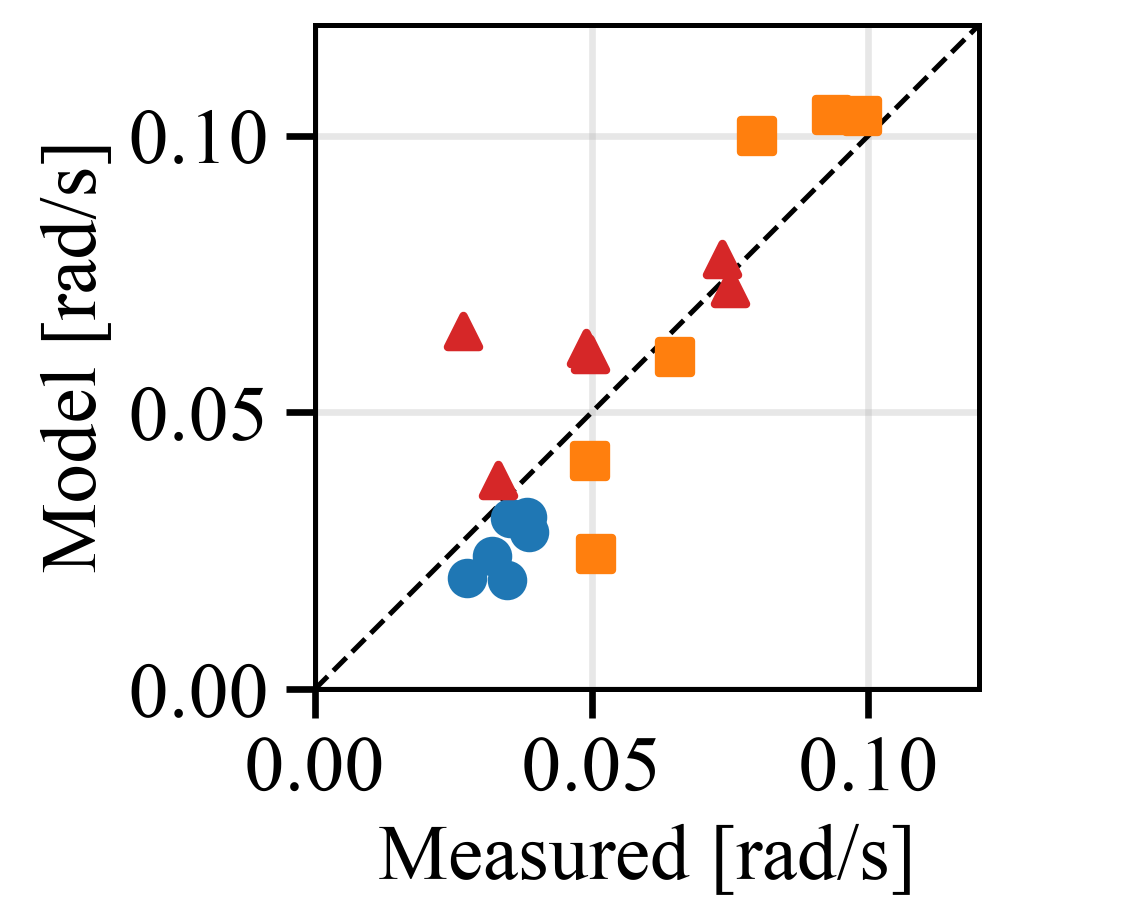
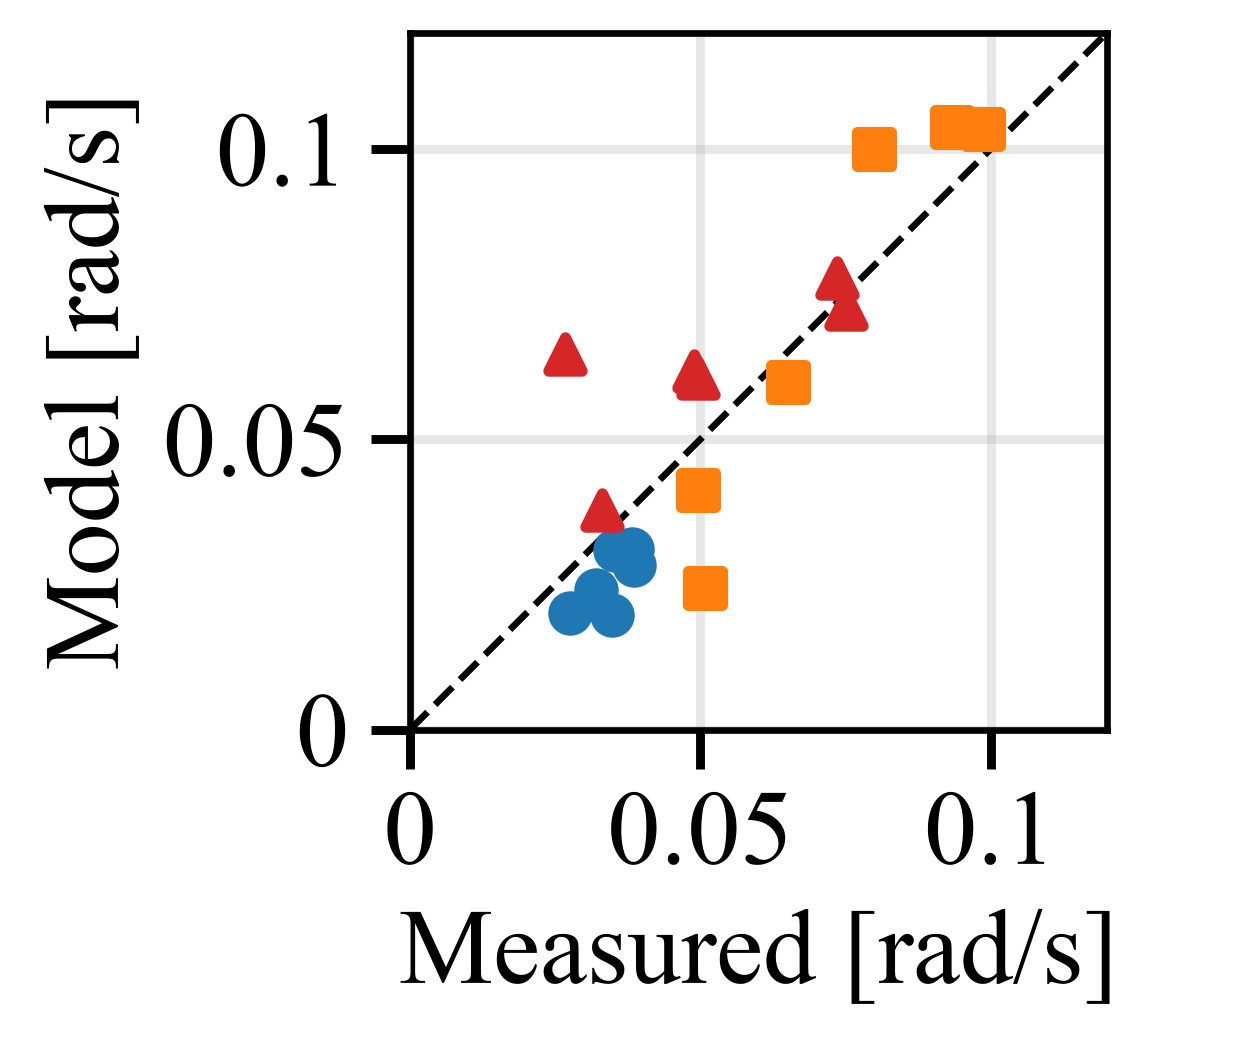
vib_sim: KRoC 그림을 납작하게(40 × 33 mm, 80 × 40 mm), 글자 9.5 pt·800 dpi

Changed region(s): [[0.0309, 0.0, 0.8959, 0.9729], [0.3707, 0.304, 0.4634, 0.3952]]

diff --git a/vib_sim/fig_kroc.py b/vib_sim/fig_kroc.py
@@ -1,4 +1,4 @@
-"""KRoC 양식용 그림(300 dpi 이상·1000 픽셀 이상, 그림 안 글자는 본문과 같은 9.5 pt, 캡션은 영어). 원고에 넣는 크기 그대로 만든다: Fig. 1은 48 mm, Fig. 2는 80 mm 폭.
+"""KRoC 양식용 그림(300 dpi 이상·1000 픽셀 이상, 그림 안 글자는 본문과 같은 9.5 pt, 캡션은 영어). 원고에 넣는 크기 그대로 만든다: Fig. 1은 40 × 33 mm, Fig. 2는 80 × 40 mm.
 실행: ~/nonmoon/.venv_pptx/bin/python fig_kroc.py  →  figs/kroc_fig1.png, figs/kroc_fig2.png
 입력: out/exp3_replay_c1.csv, out/exp6_tk5_s{1,2,3}_{pos,pd,asmc3}.csv, out/exp6_tk5r_s{1,2,3}_asmc3.csv"""
 import csv, os
@@ -9,7 +9,7 @@ import matplotlib.pyplot as plt
 H = os.path.dirname(os.path.abspath(__file__)); O = H + "/out"; CAM = 1.27
 # KRoC 양식: 그림 안 글자는 본문과 같은 9.5 pt, 300 dpi 이상·1,000 픽셀 이상.
 # 그림을 "원고에 넣는 크기 그대로" 만든다(W1·W2 mm) — 넣을 때 줄이거나 키우면 글자 크기가 달라진다. 글꼴은 본문의 영문 글꼴인 Times New Roman(없으면 폭이 같은 Liberation Serif로 바꿔 쓴다).
-W1, H1, W2, H2, DPI = 48.0, 39.0, 80.0, 50.0, 600
+W1, H1, W2, H2, DPI = 40.0, 33.0, 80.0, 40.0, 800      # 11/23 저녁: 2쪽에 맞추려고 납작하게(앞선 값 48 × 39, 80 × 50 mm). 800 dpi면 40 mm 폭도 1,000픽셀을 넘는다
 MM = 1 / 25.4
 plt.rcParams.update({"font.size": 9.5, "font.family": "Times New Roman", "mathtext.fontset": "stix", "axes.labelsize": 9.5, "xtick.labelsize": 9.5, "ytick.labelsize": 9.5, "legend.fontsize": 9.5,
                      "axes.grid": True, "grid.alpha": 0.3, "axes.linewidth": 0.6, "xtick.major.pad": 2, "ytick.major.pad": 2, "axes.labelpad": 2})
@@ -19,8 +19,8 @@ rows = list(csv.DictReader(open(O + "/exp3_replay_c1.csv")))
 fig, ax = plt.subplots(figsize=(W1 * MM, H1 * MM), layout="constrained")
 for v, c, m in ((5, "#1f77b4", "o"), (10, "#ff7f0e", "s"), (15, "#d62728", "^")):
     r = [x for x in rows if float(x["cond"].split("_v")[1].split("_")[0]) == v]
-    ax.scatter([float(x["real_gyro_rms"]) for x in r], [float(x["stop_pitch_5_10"]) * CAM for x in r], s=14, color=c, marker=m, zorder=3)
-lim = 0.12; ax.plot([0, lim], [0, lim], "k--", lw=0.6); ax.set_xlim(0, lim); ax.set_ylim(0, lim); ax.set_aspect("equal"); ax.set_xticks([0, 0.05, 0.1]); ax.set_yticks([0, 0.05, 0.1])
+    ax.scatter([float(x["real_gyro_rms"]) for x in r], [float(x["stop_pitch_5_10"]) * CAM for x in r], s=9, color=c, marker=m, zorder=3)
+lim = 0.12; ax.plot([0, lim], [0, lim], "k--", lw=0.6); ax.set_xlim(0, lim); ax.set_ylim(0, lim); ax.set_aspect("equal"); ax.set_xticks([0, 0.05, 0.1]); ax.set_yticks([0, 0.05, 0.1]); ax.set_xticklabels(["0", "0.05", "0.1"]); ax.set_yticklabels(["0", "0.05", "0.1"])
 ax.set_xlabel("Measured [rad/s]"); ax.set_ylabel("Model [rad/s]")
 fig.savefig(H + "/figs/kroc_fig1.png", dpi=DPI); plt.close(fig)
 
@@ -43,5 +43,5 @@ for a_, t_ in zip(ax, ("(a)", "(b)")):
     a_.set_xticks(range(3)); a_.set_xticklabels(["1", "2", "3"]); a_.set_xlabel("Moving joints"); a_.grid(axis="x", visible=False)
     a_.set_title(t_, loc="left", fontsize=9.5, pad=2)
 hd = [plt.Rectangle((0, 0), 1, 1, color=c) for c in COL.values()]
-fig.legend(hd, list(COL.keys()), loc="outside lower center", ncol=3, frameon=False, handlelength=1.0, columnspacing=1.0, labelspacing=0.15, handletextpad=0.4, borderaxespad=0.0)
+fig.legend(hd, list(COL.keys()), loc="outside lower center", ncol=3, frameon=False, handlelength=1.0, columnspacing=1.0, labelspacing=0.05, handletextpad=0.4, borderaxespad=0.0)
 fig.savefig(H + "/figs/kroc_fig2.png", dpi=DPI); plt.close(fig); print("ok")
